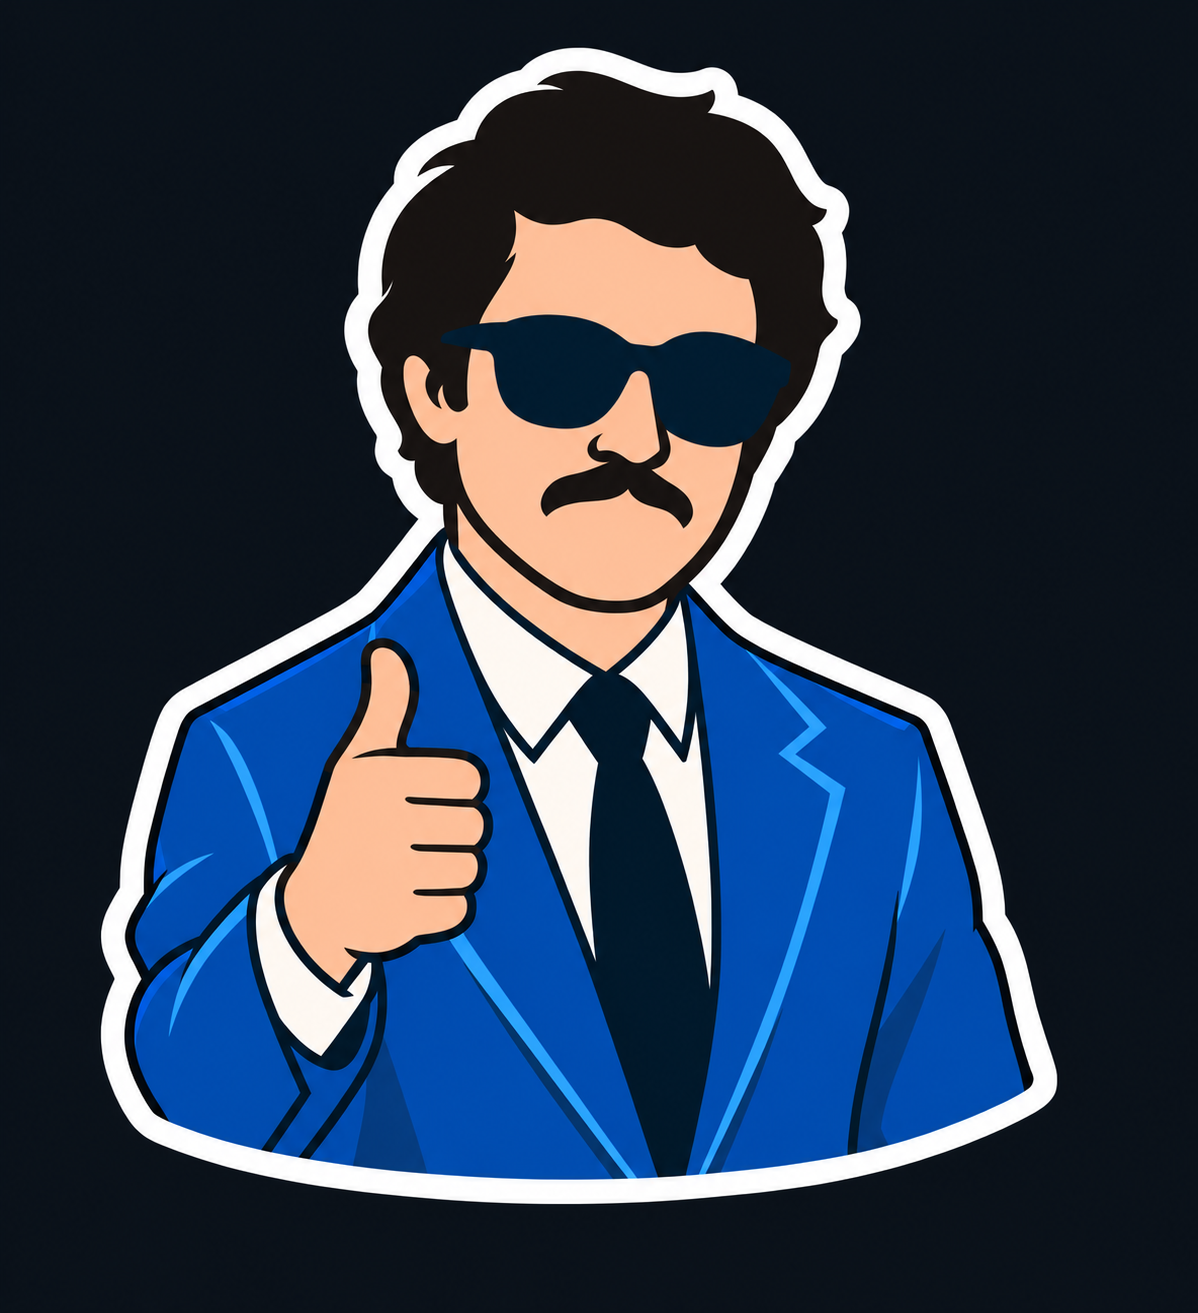
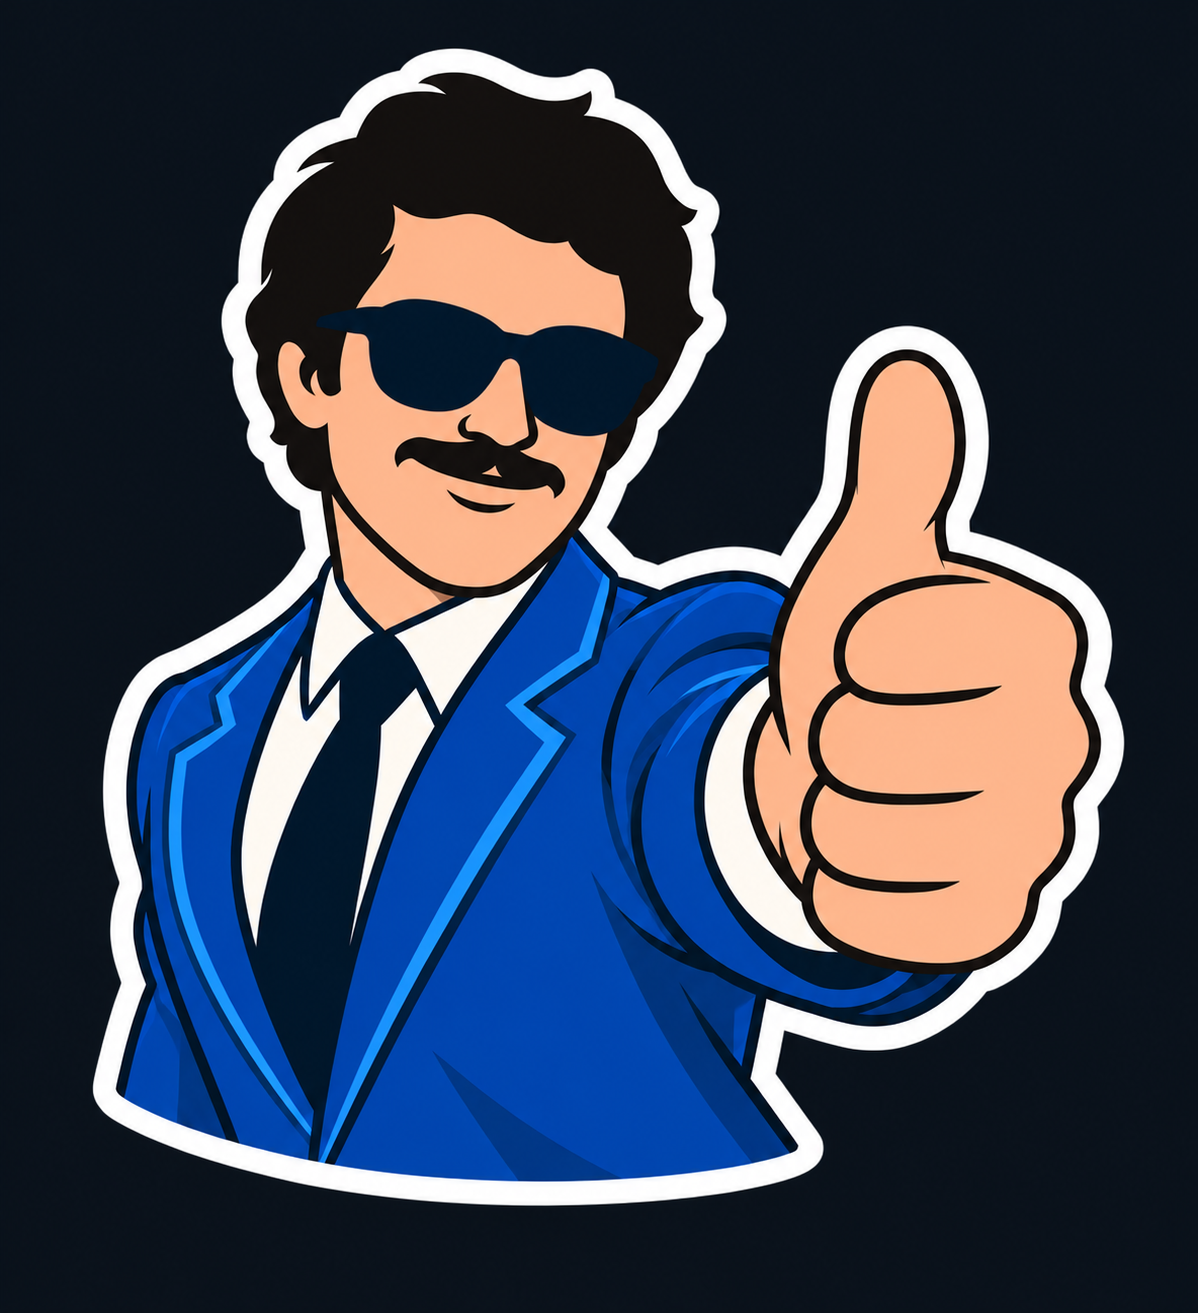
Refine hero composition with new thumbs-up sticker

diff --git a/localspotlight/brand.css b/localspotlight/brand.css
@@ -75,20 +75,23 @@ body.cerneyselects-site {
     border-color: var(--border);
     background: var(--bg);
 }
-.cerneyselects-site.directory-page .spotlight-hero-copy { flex: 1; }
-.cerneyselects-site.directory-page .spotlight-hero-heading {
-    display: flex;
+.cerneyselects-site.directory-page .spotlight-hero-copy {
+    flex: 1;
+    display: grid;
+    grid-template-columns: minmax(0, 1fr) minmax(0, .82fr);
+    grid-template-areas: "kicker kicker" "title art" "intro art";
     align-items: center;
-    justify-content: space-between;
-    gap: 24px;
+    gap: 24px 32px;
 }
+.cerneyselects-site.directory-page .spotlight-hero-copy h1 { grid-area: title; }
 .cerneyselects-site.directory-page .spotlight-hero-sticker {
+    grid-area: art;
     display: block;
-    flex: none;
-    width: clamp(136px, 19vw, 240px);
+    width: 100%;
+    max-width: 300px;
     height: auto;
 }
-.cerneyselects-site.directory-page .spotlight-hero-kicker { margin-bottom: 24px; }
+.cerneyselects-site.directory-page .spotlight-hero-kicker { grid-area: kicker; margin: 0; }
 .cerneyselects-site.directory-page .directory-eyebrow {
     display: inline-flex;
     align-items: center;
@@ -114,6 +117,7 @@ body.cerneyselects-site {
 .cerneyselects-site.directory-page .directory-heading h1 span:last-child { color: var(--accent); }
 .cerneyselects-site.directory-page .spotlight-hero-copy h1::after { content: ''; position: static; display: block; width: 60px; height: 2px; background: #426b91; margin-top: 28px; border-radius: 0; transform: none; }
 .cerneyselects-site.directory-page .directory-heading p:not(.directory-eyebrow) { color: var(--dim); font-size: 1rem; line-height: 1.65; margin-top: 24px; padding: 0; max-width: 62ch; }
+.cerneyselects-site.directory-page .spotlight-hero-copy p.spotlight-hero-intro { grid-area: intro; margin: 0; }
 .cerneyselects-site.directory-page .spotlight-owner-invitation { flex: 0 1 340px; padding: 26px; border: 1px solid var(--border-strong); border-left: 2px solid var(--accent); border-radius: 0; background: var(--elev); }
 .cerneyselects-site.directory-page .spotlight-owner-invitation h2 { font: 700 1.85rem/1.1 var(--display); text-transform: uppercase; color: var(--text); margin: 0 0 14px; }
 .cerneyselects-site.directory-page .spotlight-owner-invitation p { font-size: .87rem; color: var(--dim); margin: 0 0 20px; }
@@ -183,6 +187,9 @@ body.cerneyselects-site {
 .cerneyselects-site .policy-main h2 { font: 700 1.9rem/1.1 var(--display); text-transform: uppercase; }
 .cerneyselects-site .policy-date { color: var(--accent); font-size: .72rem; font-weight: 600; letter-spacing: .1em; text-transform: uppercase; }
 
+@media(max-width:1100px) {
+    .cerneyselects-site.directory-page .spotlight-hero-copy { grid-template-columns: max-content minmax(0, 1fr); grid-template-areas: "kicker kicker" "title art" "intro intro"; gap: 24px; }
+}
 @media(max-width:1000px) {
     .cerneyselects-site .nav-links { gap: 16px; }
     .cerneyselects-site .nav-links a { font-size: .7rem; }
@@ -199,8 +206,8 @@ body.cerneyselects-site {
     .cerneyselects-site.directory-page .directory-main { padding-top: 38px; padding-bottom: 40px; }
     .cerneyselects-site.directory-page .directory-heading { gap: 28px; padding-bottom: 30px; margin-bottom: 28px; }
     .cerneyselects-site.directory-page .directory-heading h1 { font-size: clamp(2.75rem, 14vw, 4rem); }
-    .cerneyselects-site.directory-page .spotlight-hero-heading { gap: 12px; }
-    .cerneyselects-site.directory-page .spotlight-hero-sticker { width: clamp(104px, 30vw, 160px); }
+    .cerneyselects-site.directory-page .spotlight-hero-copy { grid-template-columns: minmax(0, 1fr) 42%; gap: 24px 8px; }
+    .cerneyselects-site.directory-page .spotlight-hero-sticker { max-width: 180px; }
     .cerneyselects-site.directory-page .directory-heading p:not(.directory-eyebrow) { font-size: .9rem; }
     .cerneyselects-site.directory-page .directory-eyebrow { font-size: .65rem; letter-spacing: .15em; }
     .cerneyselects-site.directory-page .spotlight-owner-invitation { padding: 20px; }

diff --git a/localspotlight/index.html b/localspotlight/index.html
@@ -45,11 +45,9 @@
                 <div class="spotlight-hero-kicker">
                     <p class="directory-eyebrow">Turning up the local love.</p>
                 </div>
-                <div class="spotlight-hero-heading">
-                    <h1><span>Cerney</span> <span>Selects</span></h1>
-                    <img class="spotlight-hero-sticker" src="/localspotlight/hero-sticker.png" alt="Cerney Selects thumbs-up sticker illustration" width="1198" height="1313" decoding="async" fetchpriority="high">
-                </div>
-                <p>Good food. Great shops. People worth knowing.<br class="hero-copy-break"> Find your next favorite right here in Monterey County.</p>
+                <h1><span>Cerney</span> <span>Selects</span></h1>
+                <img class="spotlight-hero-sticker" src="/localspotlight/hero-sticker.png?v=2" alt="Cerney Selects thumbs-up sticker illustration" width="1198" height="1313" decoding="async" fetchpriority="high">
+                <p class="spotlight-hero-intro">Good food. Great shops. People worth knowing.<br class="hero-copy-break"> Find your next favorite right here in Monterey County.</p>
             </div>
             <aside class="spotlight-owner-invitation" aria-label="Feature your business">
                 <h2>Bring your business into the spotlight.</h2>
